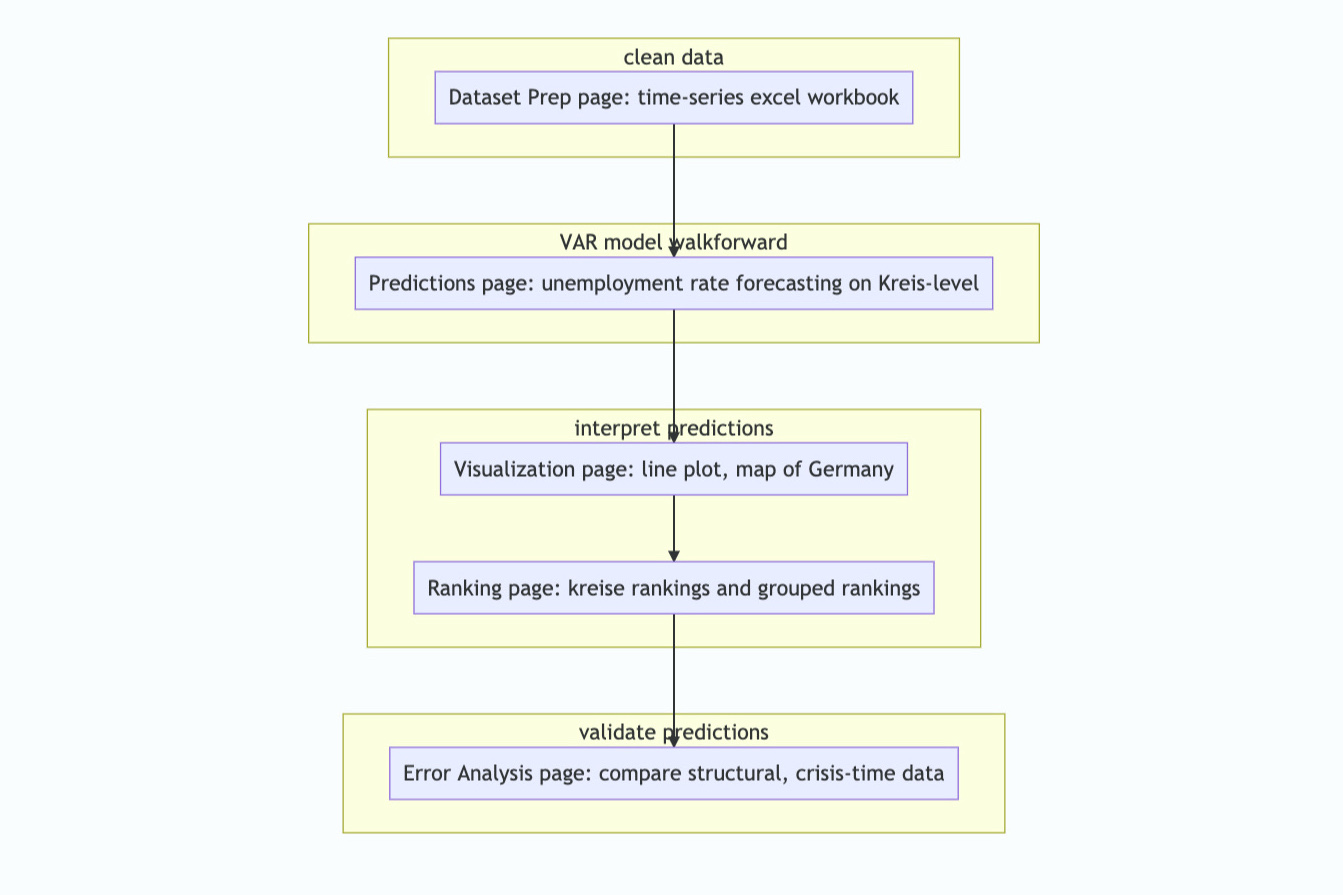
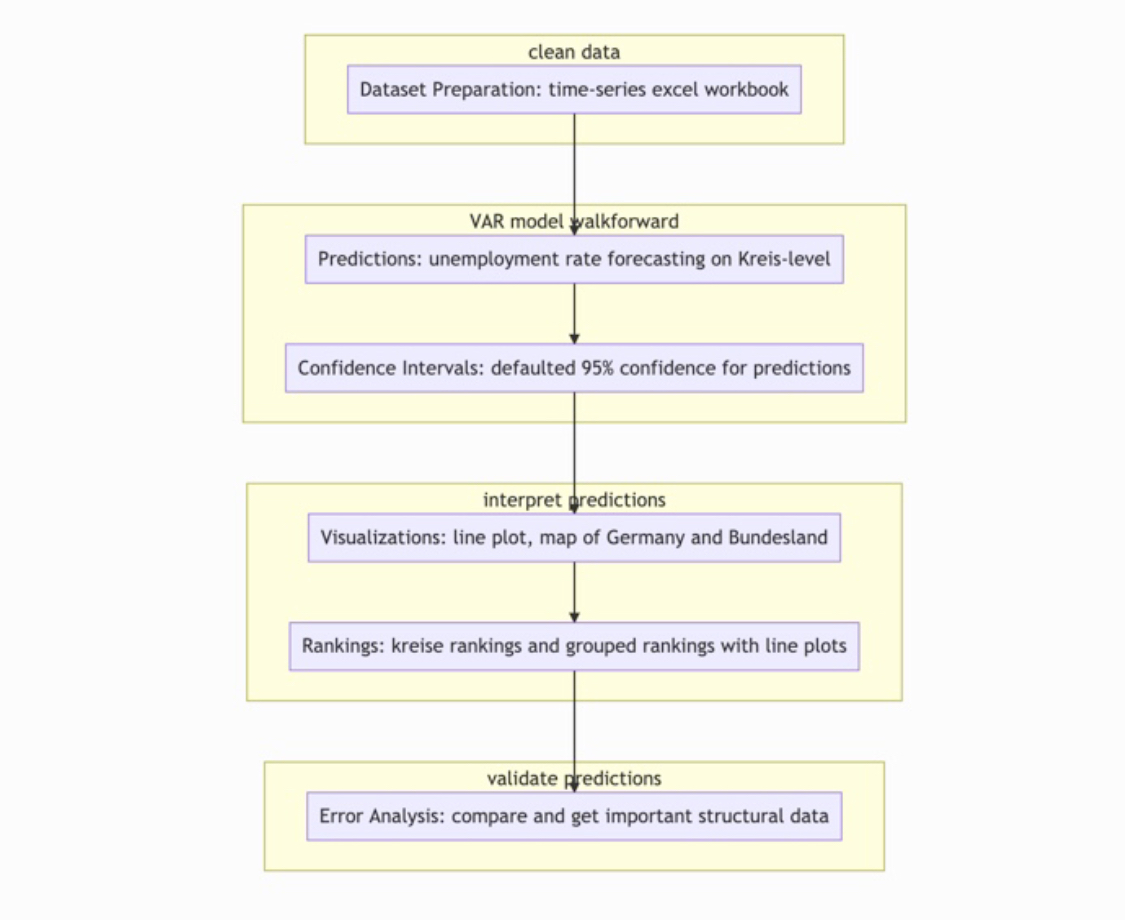
update flowcahrt and home page

diff --git a/pages/home_page.py b/pages/home_page.py
@@ -78,13 +78,20 @@ def app():
     pred_section = st.beta_expander("Predictions page", False)
     pred_section.markdown(pred)
     
+    ci = '''
+        This **Confidence Intervals** page provides confidence intervals 
+        for the predictions that have been calculated in the **Predictions** page.
+        '''
+    ci_section = st.beta_expander("Confidence Intervals page", False)
+    ci_section.markdown(ci)
+    
     viz = '''
         The **Visualization** page shows line plots and map visualizations of the prediction results
         to quickly understand the prediction results, 
         e.g. which kreis has the highest unemployment rate, 
         whether the trend for that kreis is going up or down.
         '''
-    viz_section = st.beta_expander("Visualization page", False)
+    viz_section = st.beta_expander("Visualizations page", False)
     viz_section.markdown(viz)
     
     rank = '''
@@ -93,7 +100,7 @@ def app():
         this page contains kreis-level rankings and 
         grouped rankings of unemployment rates and their percentage changes. 
         '''
-    rank_section = st.beta_expander("Ranking page", False)
+    rank_section = st.beta_expander("Rankings page", False)
     rank_section.markdown(rank)
     
     error = '''
